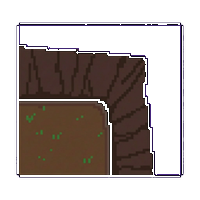
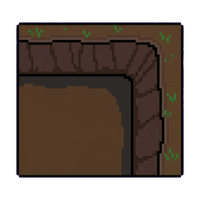
Update out corner NW prompt and flip

diff --git a/scripts/generate_assets.py b/scripts/generate_assets.py
@@ -76,7 +76,7 @@ CORNER_OUT_ORIENTATIONS = [
     ),
     (
         "nw",
-        "Convex (outie) corner: cliff legs run along the north and west edges. Low/drop pocket is inside the corner in the northwest quadrant; high ground/rim with grass is outside the corner in the southeast quadrant.",
+        "Convex (outie) corner: mostly high ground/rim, about three-quarters of the tile elevated. The cliff forms along the north and west edges, with only a shallow low pocket in the northwest corner; the rest of the tile is higher ground with grass on the rim.",
     ),
     (
         "se",
@@ -643,8 +643,8 @@ FLIP_ORIENTATIONS = {
         "sw": "se",
     },
     "corner_out": {
-        "nw": "ne",
-        "sw": "se",
+        "ne": "nw",
+        "se": "sw",
     },
     "edge": {
         "ns_w": "ns",
